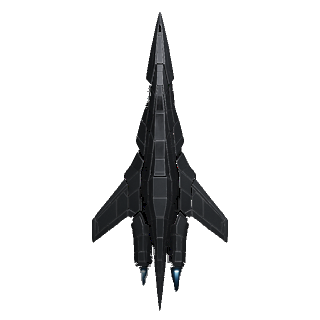
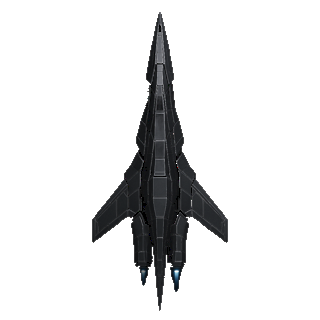
fix(art): MCC 내부 비침 완전 제거 — 이진 솔리드+가우시안 AA (v7.411)
v7.410 방식이 mcc_frg 등 얇은 피처에서 너덜거리던 것 개선. 배경제외 전영역 fill→255→σ0.6 AA.
얇은 안테나까지 불투명 + 매끈 엣지. 대형 확대 검증.

diff --git a/CHANGELOG.md b/CHANGELOG.md
@@ -1,3 +1,10 @@
+## 2026-06-05 v7.411 — MCC 함선 내부 비침 완전 제거 (이진 솔리드 + AA)
+
+v7.410 게인/erosion 방식이 mcc_frg 같은 얇은 피처 많은 함선에서 가장자리가 너덜거리고 일부 비침이
+남던 것 개선. MCC 8종을 테두리연결 배경 제외 전 영역 fill_holes → 이진 255 솔리드 → 가우시안 σ0.6
+가장자리 AA 로 재처리. 얇은 안테나/날개까지 불투명 유지 + 매끈한 엣지. mcc_frg 대형 확대 검증
+(see-through 0, 솔리드). 남은 어두움은 소스 아트 특성(투명 문제 아님).
+
 ## 2026-06-05 v7.410 — 전 함선 내부 비침 제거 + 전투 사운드 닫기 버그
 
 #1 함선 내부 반투명(비침): mcc/fsp/cv 22종 전부 — 테두리 연결 배경만 투명, 내부(core)는 완전
